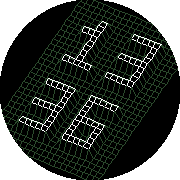
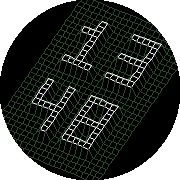
Docs pass for public release: refresh README, add MIT license
- README: trimetric wording, Dev Connect install flow, real-watch emery
  screenshot, fixed FdF links, license section, AA note updated
- CLAUDE.md: AA lesson updated, --phone arg-order gotcha, stale bits removed
- MIT LICENSE (vendored skill keeps its own terms)

diff --git a/README.md b/README.md
@@ -1,13 +1,13 @@
 # FdF Time
 
 A [Pebble](https://repebble.com/) watchface that renders the time as a 3D
-wireframe heightmap in isometric projection — a tribute to École 42's **FdF**
-("fil de fer") project, whose demo map extrudes "42" from a flat terrain.
-Here, the terrain grows the current time instead, refreshed every minute.
+wireframe heightmap — a tribute to École 42's **FdF** ("fil de fer") project,
+whose demo map extrudes "42" from a flat terrain. Here, the terrain grows the
+current time instead, refreshed every minute.
 
-| basalt (color) | emery (Pebble Time 2) | diorite (1-bit) | chalk (round) |
+| basalt (color) | emery (real Pebble Time 2) | diorite (1-bit) | chalk (round) |
 |---|---|---|---|
-| ![basalt](docs/screenshot-basalt.png) | ![emery](docs/screenshot-emery.png) | ![diorite](docs/screenshot-diorite.png) | ![chalk](docs/screenshot-chalk.png) |
+| ![basalt](docs/screenshot-basalt.png) | ![emery](docs/screenshot-emery-real-watch.png) | ![diorite](docs/screenshot-diorite.png) | ![chalk](docs/screenshot-chalk.png) |
 
 Features:
 
@@ -18,7 +18,7 @@ Features:
   old digits to the new ones — the terrain grows and recedes (~700 ms,
   ease-out).
 - **Wrist-flick orbit**: a tap/flick spins the model through a full turn
-  (the FdF rotation bonus), then settles back to the canonical isometric view.
+  (the FdF rotation bonus), then settles back to the canonical view.
 - Runs on all 7 platforms: `aplite`, `basalt`, `chalk`, `diorite`, `emery`,
   `flint`, `gabbro`.
 
@@ -28,16 +28,25 @@ Pure integer math, no floats — friendly to the FPU-less Cortex-M3:
 
 - Trimetric projection tuned for a portrait watch screen: the digit-row axis
   slopes a gentle 22° (readable baseline), the HH/MM stack axis is picked at
-  init (~60-70°) to fill the screen height, and a terrain "bleed" ring
+  init (~60–70°) to fill the screen height, and a terrain "bleed" ring
   overflows the edges so the mesh reaches the corners. All axes are
   1024-scale fixed-point vectors.
 - Rotation uses the SDK's `sin_lookup`/`cos_lookup` fixed-point trig.
-- Time digits come from a 3×5 bitmap font scaled ×2 into a 16×25 heightmap;
-  the whole transform chain (center → rotate → project) recomputes from the
-  pristine grid every frame, FdF-style.
-- Legibility on a 144 px screen comes from visual hierarchy: plateau-top
+- Time digits come from a 3×5 bitmap font scaled ×2 into the heightmap
+  (inner 16×25 region plus the bleed ring); the whole transform chain
+  (center → rotate → project) recomputes from the pristine grid every frame,
+  FdF-style.
+- Legibility at watch resolution comes from visual hierarchy: plateau-top
   edges (the digit outlines) are bright/bold, walls and the base mesh recede
   (dark green on color displays; dropped or thinned on 1-bit displays).
+
+## Install on your watch
+
+With the current Pebble mobile app ([repebble.com/app](https://repebble.com/app)):
+
+1. In the app: **Devices → ⋯ → Enable Dev Connect**, sign in with GitHub.
+2. On your computer: `pebble login` (same GitHub account).
+3. `pebble install --phone` — no IP needed, the connection is relayed.
 
 ## Dev environment (NixOS / Nix + devenv)
 
@@ -64,17 +73,11 @@ pebble screenshot --emulator basalt # grab a screenshot
 pebble kill                         # stop emulators
 ```
 
-To install on a real watch through the phone app's developer connection:
-
-```sh
-pebble install --phone <PHONE_IP>
-```
-
 ## Project layout
 
 ```
 src/c/main.c     app lifecycle, tick handling, morph/spin animations
-src/c/fdf.c/.h   heightmap model, integer isometric pipeline, wireframe render
+src/c/fdf.c/.h   heightmap model, integer trimetric pipeline, wireframe render
 src/c/digits.h   3x5 digit font
 package.json     Pebble app manifest (uuid, platforms)
 wscript          waf build script (standard Pebble template)
@@ -84,12 +87,18 @@ devenv.nix       reproducible dev environment + FHS wrapper + pebble scripts
 
 ## Resources
 
-- [FdF subject](https://cdn.intra.42.fr/) — École 42 wireframe project (the inspiration)
-- [Pebble developer docs](https://developer.repebble.com/) — API reference, tutorials
+- [École 42](https://42.fr/) — FdF is a rank-2 project of the common core;
+  see this [community guide](https://42-cursus.gitbook.io/guide) for context
+- [kurval/42-fdf](https://github.com/kurval/42-fdf) — reference FdF
+  implementation studied for the pipeline
+- [Pebble developer docs](https://developer.repebble.com/) — API reference,
+  tutorials
 - [Framebuffer & drawing guide](https://developer.repebble.com/guides/graphics-and-animations/framebuffer-graphics/)
-- [kurval/42-fdf](https://github.com/kurval/42-fdf) — reference FdF implementation studied for the pipeline
 - [pebble-watchface-agent-skill](https://github.com/coredevices/pebble-watchface-agent-skill)
   (© Core Devices, vendored under `.claude/skills/`)
+
+This project was built in pair with Claude Code — research, code, and the
+emulator-driven design iterations are documented in `CLAUDE.md`.
 
 ## Notes / gotchas
 
@@ -97,5 +106,12 @@ devenv.nix       reproducible dev environment + FHS wrapper + pebble scripts
   priority over the SDK's `arm-none-eabi-gcc`. The FHS wrapper unsets them.
 - The STPyV8 ICU seed (done by `pebble-setup`) works around a read-only
   `/usr/share` inside the FHS environment.
-- Antialiasing is deliberately disabled: at this wireframe density, AA smears
-  1 px lines into noise. Crisp beats smooth.
+- Antialiasing is enabled today (cells are ~6 px since the trimetric
+  projection); it was disabled at the earlier, denser grid where it smeared
+  1 px lines into noise. If the grid ever gets denser again, revisit.
+
+## License
+
+MIT — see [LICENSE](LICENSE). The vendored Claude Code skill under
+`.claude/skills/pebble-watchface/` is © Core Devices and distributed under
+its own terms (provided for creating Pebble watchfaces).

diff --git a/CLAUDE.md b/CLAUDE.md
@@ -1,7 +1,7 @@
 # CLAUDE.md
 
 "FdF Time" — a Pebble watchface rendering the time as a 3D wireframe
-heightmap in isometric projection, in the style of École 42's FdF project.
+heightmap in a trimetric projection, in the style of École 42's FdF project.
 Written in C against the Pebble SDK (2026 Core Devices SDK, currently 4.33).
 Built with waf via `pebble-tool`, tested in the QEMU emulator. Dev
 environment is managed by devenv/direnv on NixOS.
@@ -19,6 +19,9 @@ otherwise prefix with `devenv shell --`).
 - `pebble logs --emulator basalt` — tail `APP_LOG` output.
 - `pebble kill` — stop all emulators.
 - `pebble clean` — wipe the build directory.
+- `pebble install --phone` / `pebble screenshot <out.png> --phone` — real
+  watch via Dev Connect (requires `pebble login`; note: positional args go
+  BEFORE the bare `--phone` flag or it swallows them as a phone IP).
 
 There are no unit tests; verification = `pebble build` succeeds + visual check
 via emulator screenshot.
@@ -48,8 +51,9 @@ via emulator screenshot.
 
 ## Rendering lessons already learned (don't regress these)
 
-- Antialiasing is OFF on purpose: at ~4 px/cell it smears 1 px lines into
-  noise.
+- Antialiasing is ON at the current ~6 px/cell density and looks good; it
+  was OFF at the earlier ~4 px/cell density where it smeared 1 px lines into
+  noise. If the grid ever gets denser, revisit.
 - Edge styling keys off the LOWER endpoint altitude: that is what keeps
   digit holes/counters readable (walls recede instead of filling them).
 - 1-cell-thick digit strokes (sharp ridges) were tried and are NOT legible;
@@ -81,8 +85,6 @@ hardcoded coordinates. Test at minimum on `basalt` (color rect), `chalk`
   depending on platform), no floats in hot paths on aplite, always destroy
   what you create in `window_unload`/`deinit`.
 - `clock_is_24h_style()` must be respected for time formatting.
-- Strings passed to `text_layer_set_text` must be `static` (the layer does
-  not copy them).
 
 ## Claude Code skill
 
